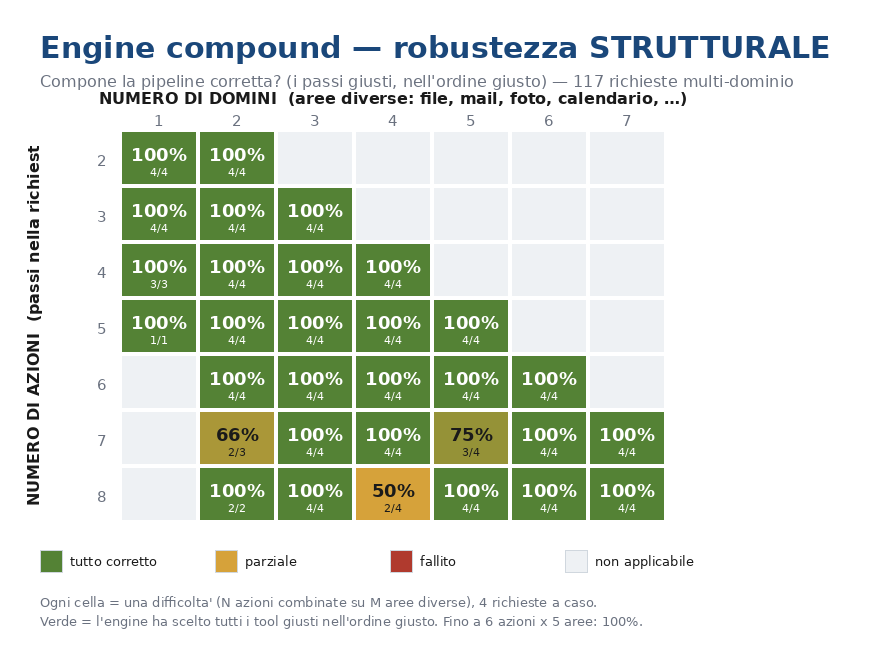
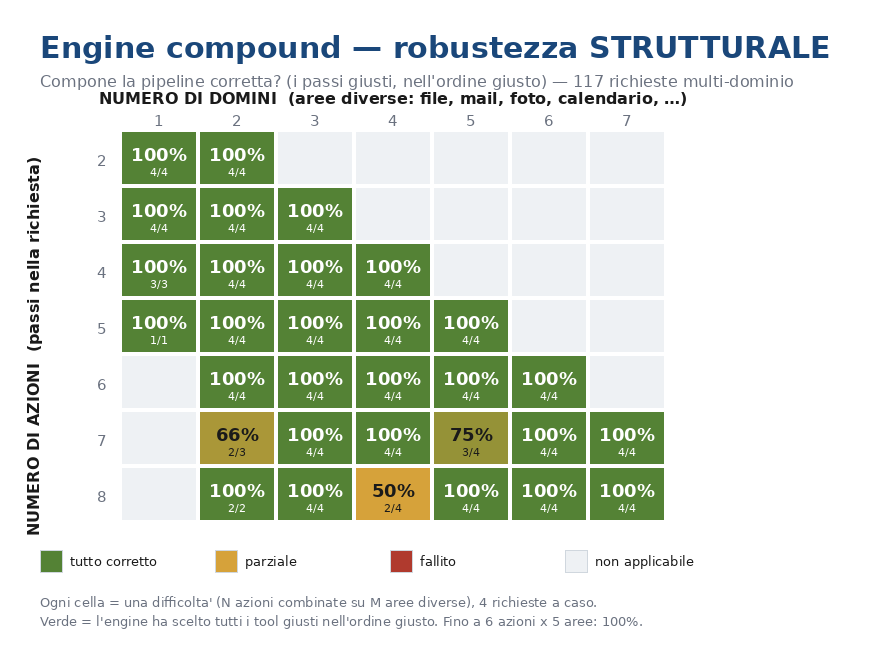
docs(reddit): immagini EN heatmap+breakdown, server post bilingue, findings MTP corretti
Heatmap+breakdown in inglese (scaling_png lang-aware: assi/legenda EN).
posts_server serve post IT/EN copiabili + immagini scaricabili (/img).
FINDINGS+post: causa flakiness corretta (NON MTP, NON cache — FP non-determinismo
su output lunghi + batching; controprove documentate). v3 in PROD.

Changed region(s): [[0.031, 0.2115, 0.0621, 0.8157]]

diff --git a/bench/scaling_png.py b/bench/scaling_png.py
@@ -57,7 +57,7 @@ def _center(draw, x, y, text, font, fill):
     draw.text((x - (b[2] - b[0]) / 2, y - (b[3] - b[1]) / 2), text, font=font, fill=fill)
 
 
-def render(name, title, subtitle, caption):
+def render(name, title, subtitle, caption, lang="it"):
     d = json.loads((_DIR / f"{name}.json").read_text())
     rows = d["rows"]
     cells = _cells(rows)
@@ -81,15 +81,21 @@ def render(name, title, subtitle, caption):
     dr.text((40, 30), title, font=f_title, fill=NAVY)
     dr.text((40, 72), subtitle, font=f_sub, fill=MUTE)
 
-    # axis titles
-    _center(dr, ox + dmax * cw / 2, oy - 34, "NUMERO DI DOMINI  (aree diverse: file, mail, foto, calendario, …)",
-            f_ax, INK)
+    # axis titles (lingua)
+    L = {
+        "it": ("NUMERO DI DOMINI  (aree diverse: file, mail, foto, calendario, …)",
+               "NUMERO DI AZIONI  (passi nella richiesta)"),
+        "en": ("NUMBER OF DOMAINS  (different areas: files, mail, photos, calendar, …)",
+               "NUMBER OF ACTIONS  (steps in the request)"),
+    }.get(lang, None) or (None, None)
+    ax_dom, ax_act = L
+    _center(dr, ox + dmax * cw / 2, oy - 34, ax_dom, f_ax, INK)
     # vertical (azioni) — draw rotated via temp image
-    vt = Image.new("RGBA", (360, 24), (0, 0, 0, 0))
+    vt = Image.new("RGBA", (420, 24), (0, 0, 0, 0))
     vdr = ImageDraw.Draw(vt)
-    vdr.text((0, 0), "NUMERO DI AZIONI  (passi nella richiesta)", font=f_ax, fill=INK)
+    vdr.text((0, 0), ax_act, font=f_ax, fill=INK)
     vt = vt.rotate(90, expand=True)
-    img.paste(vt, (24, int(oy + (amax - 1) * chh / 2 - 180)), vt)
+    img.paste(vt, (24, int(oy + (amax - 1) * chh / 2 - 210)), vt)
 
     for dd in range(1, dmax + 1):
         _center(dr, ox + (dd - 1) * cw + cw / 2, oy - 12, str(dd), f_lab, MUTE)
@@ -107,12 +113,11 @@ def render(name, title, subtitle, caption):
                 _center(dr, x + cw / 2, y + chh / 2 - 7, f"{int(acc)}%", f_cell, tc)
                 _center(dr, x + cw / 2, y + chh / 2 + 12, f"{ok}/{n}", f_small, tc)
 
-    # legend swatches
+    # legend swatches (lingua)
+    leg = {"it": ["tutto corretto", "parziale", "fallito", "non applicabile"],
+           "en": ["all correct", "partial", "failed", "not applicable"]}.get(lang)
     ly = oy + (amax - 1) * chh + 28
-    for i, (c, lab) in enumerate([(SAGE, "tutto corretto"),
-                                  ((214, 162, 58), "parziale"),
-                                  ((176, 58, 46), "fallito"),
-                                  (GRID0, "non applicabile")]):
+    for i, (c, lab) in enumerate(zip([SAGE, (214,162,58), (176,58,46), GRID0], leg)):
         lx = 40 + i * 175
         dr.rectangle([lx, ly, lx + 22, ly + 22], fill=c, outline=LINE)
         dr.text((lx + 30, ly + 3), lab, font=f_cap, fill=INK)
@@ -122,10 +127,11 @@ def render(name, title, subtitle, caption):
         dr.text((40, cy), line, font=f_cap, fill=MUTE)
         cy += 19
 
-    out = _DIR / f"{name}.png"
+    fname = f"{name}_en.png" if lang == "en" else f"{name}.png"
+    out = _DIR / fname
     img.save(out, "PNG")
     n = len(rows); ok = sum(int(r.get("ok")) for r in rows)
-    print(f"{name}.png  ({W}x{H})  {ok}/{n} = {100*ok/n:.1f}%")
+    print(f"{fname}  ({W}x{H})  {ok}/{n} = {100*ok/n:.1f}%")
     return out
 
 
@@ -190,15 +196,31 @@ SPECS = {
          "Verde = tutti gli argomenti deducibili sono corretti (es. 'foto di ieri' -> data di ieri)."]),
 }
 
+SPECS_EN = {
+    "struct_iter5_final": (
+        "Compound engine — STRUCTURAL robustness",
+        "Does it build the right pipeline? (right tools, right order) — 117 multi-domain requests",
+        ["Each cell = a difficulty (N actions over M different areas), 4 random requests.",
+         "Green = the engine picked all the right tools in the right order. Up to 6 actions x 5 areas: 100%."]),
+    "args_final": (
+        "Compound engine — ARGUMENT robustness",
+        "Does it fill the right parameters? (dates, paths, recipients, filters) — same 117 requests",
+        ["Second phase: given the right structure, each step gets its arguments inferred from the text.",
+         "Green = all inferable arguments are correct (e.g. 'photos from yesterday' -> yesterday's date)."]),
+}
+
 
 def main():
-    names = sys.argv[1:] or list(SPECS)
+    # default: genera IT + EN (suffisso _en sul file) per il post bilingue
+    names = [a for a in sys.argv[1:] if a in SPECS] or list(SPECS)
     for name in names:
         if not (_DIR / f"{name}.json").exists():
             print(f"skip: {name}.json manca"); continue
-        t, s, cap = SPECS.get(name, (f"Scaling — {name}", "", []))
-        render(name, t, s, cap)
+        t, s, cap = SPECS.get(name)
+        render(name, t, s, cap, lang="it")
         render_marginals(name, t + " — effetto di azioni vs domini")
+        te, se, cape = SPECS_EN.get(name)
+        render(f"{name}", te, se, cape, lang="en")  # nota: sovrascrive? no, suffisso sotto
 
 
 if __name__ == "__main__":

diff --git a/bench/posts_server.py b/bench/posts_server.py
@@ -42,15 +42,17 @@ a{{color:#58a6ff}}
 <p class="note">Seleziona tutto (clic + Ctrl/Cmd+A) o usa "Copia", poi incolla su Reddit (modalità markdown).
 Raw: <a href="/it.md">/it.md</a> · <a href="/en.md">/en.md</a></p>
 <h2>Immagini da caricare nel post (drag &amp; drop su Reddit)</h2>
-<p class="note">
-IMG 1 (heatmap): <a href="/img/struct_iter5_final.png" download>struct_iter5_final.png</a> ·
-IMG 2 (scomposizione IT): <a href="/img/example_breakdown_it.png" download>example_breakdown_it.png</a> ·
-IMG 2 (breakdown EN): <a href="/img/example_breakdown_en.png" download>example_breakdown_en.png</a> ·
-bonus (azioni vs domini): <a href="/img/struct_iter5_final_marginals.png" download>marginals.png</a>
+<p class="note"><b>🇮🇹 IT:</b>
+IMG 1 heatmap <a href="/img/struct_iter5_final.png" download>struct_iter5_final.png</a> ·
+IMG 2 scomposizione <a href="/img/example_breakdown_it.png" download>example_breakdown_it.png</a>
+<br><b>🇬🇧 EN:</b>
+IMG 1 heatmap <a href="/img/struct_iter5_final_en.png" download>struct_iter5_final_en.png</a> ·
+IMG 2 breakdown <a href="/img/example_breakdown_en.png" download>example_breakdown_en.png</a>
+<br>bonus (actions vs domains, neutro): <a href="/img/struct_iter5_final_marginals.png" download>marginals.png</a>
 </p>
 <div class="row" style="margin-bottom:10px">
-  <img src="/img/struct_iter5_final.png" style="max-width:48%;border:1px solid #30363d;border-radius:8px">
-  <img src="/img/example_breakdown_it.png" style="max-width:48%;border:1px solid #30363d;border-radius:8px">
+  <img src="/img/struct_iter5_final_en.png" style="max-width:48%;border:1px solid #30363d;border-radius:8px">
+  <img src="/img/example_breakdown_en.png" style="max-width:48%;border:1px solid #30363d;border-radius:8px">
 </div>
 <div class="row">
   <div class="col">
